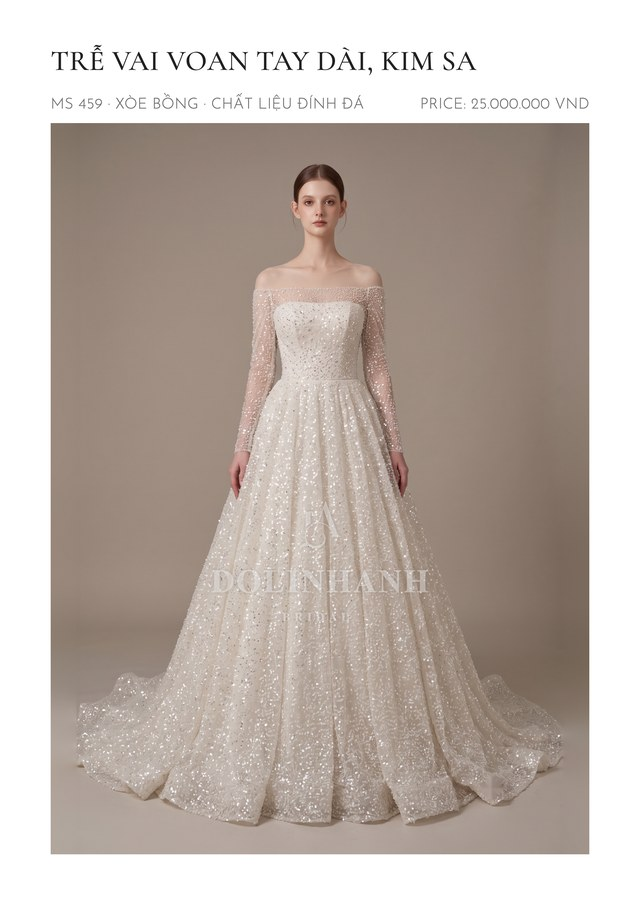
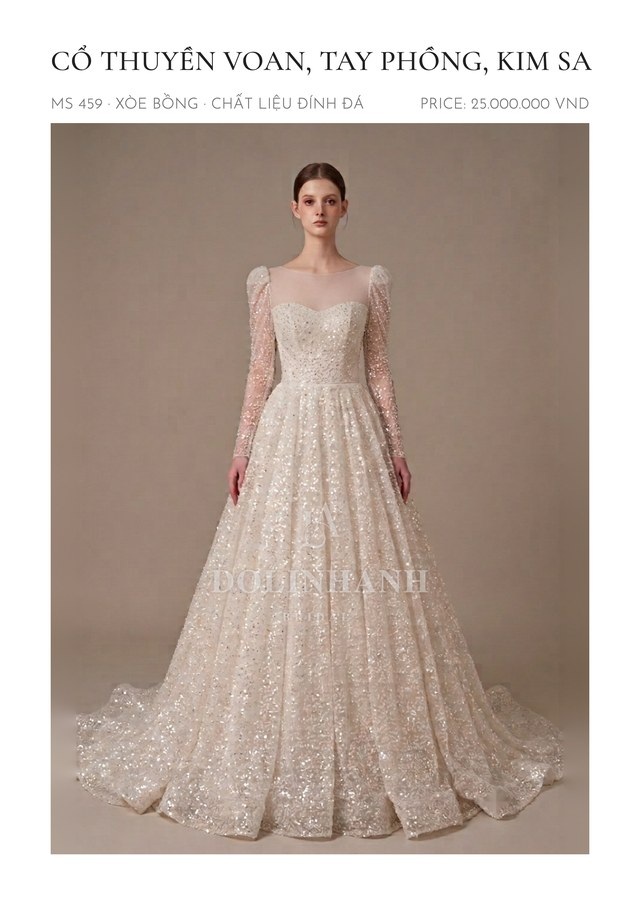
V110: thay ảnh MS 459 (cổ thuyền voan trơn) theo chị Linh duyệt

diff --git a/wedding-dress-prices.html b/wedding-dress-prices.html
@@ -488,7 +488,7 @@
 <a class="the" data-dang="ballgown" data-coso="hcm" href="anh/gia-tung-vay/MS453.jpg"><img src="anh/gia-tung-vay/MS453.jpg" loading="lazy" alt="MS 453"></a>
 <a class="the" data-dang="ballgown" data-coso="hcm" href="anh/gia-tung-vay/MS454.jpg"><img src="anh/gia-tung-vay/MS454.jpg" loading="lazy" alt="MS 454"></a>
 <a class="the" data-dang="ballgown" data-coso="hcm" href="anh/gia-tung-vay/MS455.jpg"><img src="anh/gia-tung-vay/MS455.jpg" loading="lazy" alt="MS 455"></a>
-<a class="the" data-dang="ballgown" data-coso="hcm" href="anh/gia-tung-vay/MS459.jpg"><img src="anh/gia-tung-vay/MS459.jpg" loading="lazy" alt="MS 459"></a>
+<a class="the" data-dang="ballgown" data-coso="hcm" href="anh/gia-tung-vay/MS459.jpg?v=2"><img src="anh/gia-tung-vay/MS459.jpg?v=2" loading="lazy" alt="MS 459"></a>
 <a class="the" data-dang="ballgown" data-coso="hcm" href="anh/gia-tung-vay/MS460.jpg"><img src="anh/gia-tung-vay/MS460.jpg" loading="lazy" alt="MS 460"></a>
 <a class="the" data-dang="ballgown" data-coso="hn" href="anh/gia-tung-vay/MS464.jpg"><img src="anh/gia-tung-vay/MS464.jpg" loading="lazy" alt="MS 464"></a>
 <a class="the" data-dang="ballgown" data-coso="hn" href="anh/gia-tung-vay/MS465.jpg"><img src="anh/gia-tung-vay/MS465.jpg" loading="lazy" alt="MS 465"></a>

diff --git a/ver/v110/bo-suu-tap.html b/ver/v110/bo-suu-tap.html
@@ -3123,9 +3123,9 @@ src="https://www.facebook.com/tr?id=1358640082651240&ev=PageView&noscript=1"
         </figure>
         <figure data-dang="ballgown" data-mood="timeless" data-coso="hcm">
           <div class="sl-khung">
-            <div class="sl" data-img="../../anh/vay/ms459/01.jpg?v=1"></div>
+            <div class="sl" data-img="../../anh/vay/ms459/01.jpg?v=2"></div>
           </div>
-          <figcaption><span class="kind" data-en="Dolinhanh Bridal">Dolinhanh Bridal</span><span class="nm">MS 459</span><span class="de" data-en="Illusion off-shoulder long-sleeve sequin ballgown">Trễ vai voan tay dài, kim sa</span></figcaption>
+          <figcaption><span class="kind" data-en="Dolinhanh Bridal">Dolinhanh Bridal</span><span class="nm">MS 459</span><span class="de" data-en="Sheer boat neck puff sleeve sequin ballgown">Cổ thuyền voan, tay phồng, kim sa</span></figcaption>
         </figure>
         <figure data-dang="ballgown" data-mood="timeless" data-coso="hcm">
           <div class="sl-khung">

diff --git a/ver/v110/pre-wedding-dress.html b/ver/v110/pre-wedding-dress.html
@@ -1081,9 +1081,9 @@ src="https://www.facebook.com/tr?id=1358640082651240&ev=PageView&noscript=1"
         </figure>
         <figure data-dang="ballgown" data-mood="timeless" data-coso="hcm">
           <div class="sl-khung">
-            <div class="sl" data-img="../../anh/vay/ms459/01.jpg?v=1"></div>
+            <div class="sl" data-img="../../anh/vay/ms459/01.jpg?v=2"></div>
           </div>
-          <figcaption><span class="kind" data-en="Dolinhanh Bridal">Dolinhanh Bridal</span><span class="nm">MS 459</span><span class="de" data-en="Illusion off-shoulder long-sleeve sequin ballgown">Trễ vai voan tay dài, kim sa</span></figcaption>
+          <figcaption><span class="kind" data-en="Dolinhanh Bridal">Dolinhanh Bridal</span><span class="nm">MS 459</span><span class="de" data-en="Sheer boat neck puff sleeve sequin ballgown">Cổ thuyền voan, tay phồng, kim sa</span></figcaption>
         </figure>
         <figure data-dang="mermaid" data-mood="minimal" data-coso="hcm">
           <div class="sl-khung">

diff --git a/bo-suu-tap.html b/bo-suu-tap.html
@@ -3123,9 +3123,9 @@ src="https://www.facebook.com/tr?id=1358640082651240&ev=PageView&noscript=1"
         </figure>
         <figure data-dang="ballgown" data-mood="timeless" data-coso="hcm">
           <div class="sl-khung">
-            <div class="sl" data-img="anh/vay/ms459/01.jpg?v=1"></div>
+            <div class="sl" data-img="anh/vay/ms459/01.jpg?v=2"></div>
           </div>
-          <figcaption><span class="kind" data-en="Dolinhanh Bridal">Dolinhanh Bridal</span><span class="nm">MS 459</span><span class="de" data-en="Illusion off-shoulder long-sleeve sequin ballgown">Trễ vai voan tay dài, kim sa</span></figcaption>
+          <figcaption><span class="kind" data-en="Dolinhanh Bridal">Dolinhanh Bridal</span><span class="nm">MS 459</span><span class="de" data-en="Sheer boat neck puff sleeve sequin ballgown">Cổ thuyền voan, tay phồng, kim sa</span></figcaption>
         </figure>
         <figure data-dang="ballgown" data-mood="timeless" data-coso="hcm">
           <div class="sl-khung">

diff --git a/pre-wedding-dress.html b/pre-wedding-dress.html
@@ -1081,9 +1081,9 @@ src="https://www.facebook.com/tr?id=1358640082651240&ev=PageView&noscript=1"
         </figure>
         <figure data-dang="ballgown" data-mood="timeless" data-coso="hcm">
           <div class="sl-khung">
-            <div class="sl" data-img="anh/vay/ms459/01.jpg?v=1"></div>
+            <div class="sl" data-img="anh/vay/ms459/01.jpg?v=2"></div>
           </div>
-          <figcaption><span class="kind" data-en="Dolinhanh Bridal">Dolinhanh Bridal</span><span class="nm">MS 459</span><span class="de" data-en="Illusion off-shoulder long-sleeve sequin ballgown">Trễ vai voan tay dài, kim sa</span></figcaption>
+          <figcaption><span class="kind" data-en="Dolinhanh Bridal">Dolinhanh Bridal</span><span class="nm">MS 459</span><span class="de" data-en="Sheer boat neck puff sleeve sequin ballgown">Cổ thuyền voan, tay phồng, kim sa</span></figcaption>
         </figure>
         <figure data-dang="mermaid" data-mood="minimal" data-coso="hcm">
           <div class="sl-khung">
